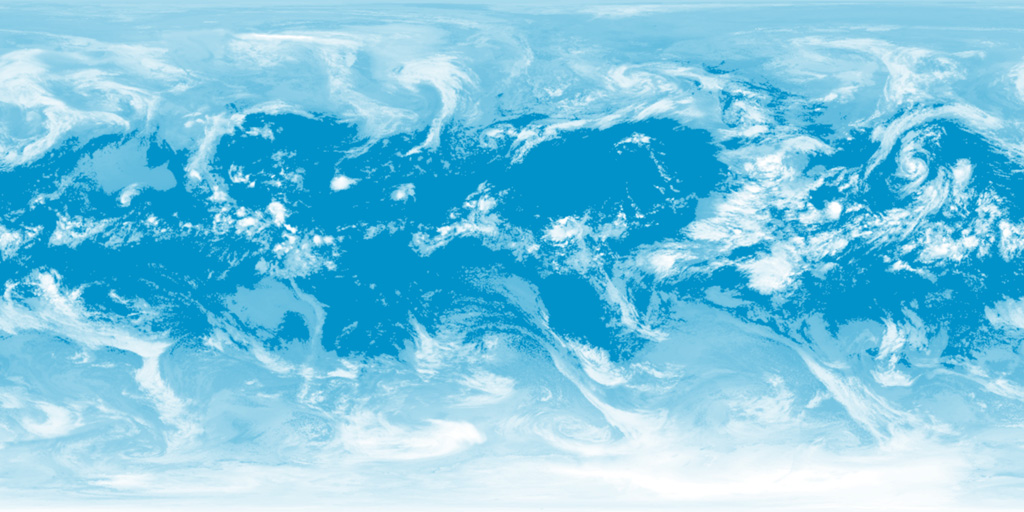
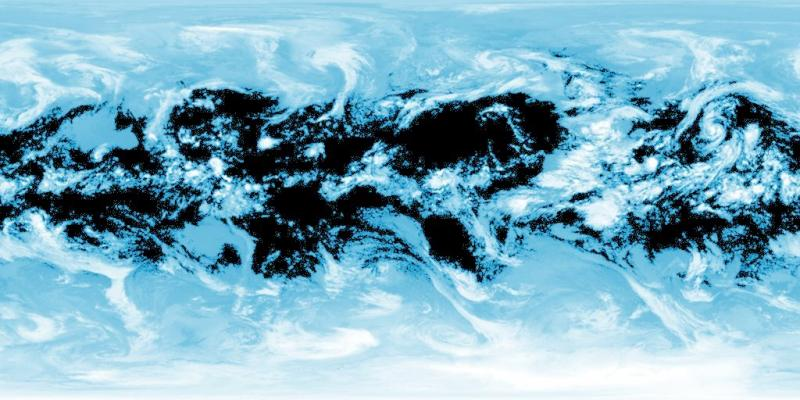
Web Solar System with Three.js : bump v0.0.36

Changed region(s): [[0.0, 0.15, 1.0, 0.72], [0.8438, 0.66, 0.875, 0.69], [0.6875, 0.12, 0.7188, 0.15]]

diff --git a/dist/solar-system.min.js b/dist/solar-system.min.js
@@ -1,9 +1,9 @@
 /*
  * solar-system
  * @Description Solar System with Threejs
- * @version v0.0.31 - 2015-09-09
+ * @version v0.0.36 - 2015-09-10
  * @link https://github.com/KenEDR/three-solar-system#readme
  * @author Enrique Daimiel Ruiz <k.daimiel@gmail.com>
  * @license MIT License, http://www.opensource.org/licenses/MIT
  */
-function render(){requestAnimationFrame(render),renderer.render(scene,camera)}THREE.SolarBody=function(a){function b(a){var b=new THREE.MeshPhongMaterial;return b.map=THREE.ImageUtils.loadTexture(a.map),b.bumpMap=void 0!==a.bumpMap?THREE.ImageUtils.loadTexture(a.bumpMap):void 0,b.specularMap=void 0!==a.specularMap?THREE.ImageUtils.loadTexture(a.specularMap):void 0,b}THREE.Object3D.call(this),this.name=a.name,this.type="SolarBody",this.category=a.category,this.radius=a.radius||50,this.vRotation=a.vRotation||0,this.URLTexture=a.URLTexture,this.tilt=a.tilt||0,this.geometry=new THREE.SphereGeometry(this.radius,50,50),a.textureProperties.name=this.name,this.material=b(a.textureProperties),this.rotation.x=this.tilt,a.cloudsProperties&&(console.log("AAAAAAAAAAAAA"),this.createClouds(a.cloudsProperties)),a.ringsProperties&&this.createRings(a.ringsProperties),this.updateMorphTargets()},THREE.SolarBody.prototype=Object.create(THREE.Mesh.prototype),THREE.SolarBody.prototype.constructor=THREE.SolarBody,THREE.SolarBody.prototype.createClouds=function(a){var b=new THREE.SphereGeometry(a.radius,50,50),c=THREE.ImageUtils.loadTexture(a.map),d=new THREE.MeshPhongMaterial({map:c,side:THREE.DoubleSide,opacity:a.opacity,transparent:a.transparent,depthWrite:a.depthWrite}),e=new THREE.Mesh(b,d);this.add(e)},THREE.SolarBody.prototype.createRings=function(a){var b=new THREE.SolarRings(a);this.add(b)},THREE.SolarBody.prototype.update=function(){this.rotation.y-=this.vRotation*Math.PI/180},THREE.SolarCamera=function(a){THREE.PerspectiveCamera.call(this),this.type="SolarCamera",this.zoom=void 0!==a.zoom?a.zoom:1,this.fov=void 0!==a.fov?a.fov:50,this.aspect=void 0!==a.aspect?a.aspect:window.innerWidth/window.innerHeight,this.near=void 0!==a.near?a.near:.1,this.far=void 0!==a.far?a.far:2e3,this.position.x=void 0!==a.position.x?a.position.x:0,this.position.y=void 0!==a.position.y?a.position.y:0,this.position.z=void 0!==a.position.z?a.position.z:0,this.updateProjectionMatrix()},THREE.SolarCamera.prototype=Object.create(THREE.PerspectiveCamera.prototype),THREE.SolarCamera.prototype.constructor=THREE.PerspectiveCamera,THREE.SolarOrbit=function(a){THREE.Object3D.call(this),this.name=a.name,this.type="SolarOrbit",this.radius=a.radius||50,this.speed=a.speed||0,this.tilt=a.tilt||0},THREE.SolarOrbit.prototype=Object.create(THREE.Object3D.prototype),THREE.SolarOrbit.prototype.constructor=THREE.SolarOrbit,THREE.SolarOrbit.prototype.update=function(){this.rotation.y-=this.speed*Math.PI/180},THREE.SolarRings=function(a){THREE.Object3D.call(this),this.type="SolarRings",this.map=a.map,this.vRotation=a.vRotation||0,this.tilt=a.tilt||0,this.geometry=new THREE.SolarRingsGeometry(a);var b=THREE.ImageUtils.loadTexture(this.map);this.material=new THREE.MeshBasicMaterial({map:b,side:THREE.DoubleSide}),this.rotation.x=(90-this.tilt)*Math.PI/180},THREE.SolarRings.prototype=Object.create(THREE.Mesh.prototype),THREE.SolarRings.prototype.constructor=THREE.SolarRings,THREE.SolarRings.prototype.update=function(){this.rotation.y-=this.vRotation*Math.PI/180},THREE.SolarRingsGeometry=function(a){THREE.Geometry.call(this),this.type="SolarRingsGeometry",this.innerRadius=a.innerRadius||0,this.outerRadius=a.outerRadius||50,this.thetaStart=void 0!==a.thetaStart?a.thetaStart:0,this.thetaLength=void 0!==a.thetaLength?a.thetaLength:2*Math.PI,this.thetaSegments=void 0!==a.thetaSegments?Math.max(3,a.thetaSegments):50,this.phiSegments=void 0!==a.phiSegments?Math.max(1,a.phiSegments):50;var b,c,d,e=[],f=this.innerRadius,g=(a.outerRadius-a.innerRadius)/this.phiSegments;for(b=0;b<this.phiSegments+1;b++){for(c=0;c<this.thetaSegments+1;c++){var h=new THREE.Vector3;d=this.thetaStart+c/this.thetaSegments*this.thetaLength,h.x=f*Math.cos(d),h.y=f*Math.sin(d),this.vertices.push(h),e.push(new THREE.Vector2(b/(this.thetaSegments-1),c/(this.phiSegments-1)))}f+=g}var i=new THREE.Vector3(0,0,1);for(b=0;b<this.phiSegments;b++){var j=b*(this.thetaSegments+1);for(c=0;c<this.thetaSegments;c++){d=c+j;var k=d,l=d+this.thetaSegments+1,m=d+this.thetaSegments+2;this.faces.push(new THREE.Face3(k,l,m,[i.clone(),i.clone(),i.clone()])),this.faceVertexUvs[0].push([e[k].clone(),e[l].clone(),e[m].clone()]),k=d,l=d+this.thetaSegments+2,m=d+1,this.faces.push(new THREE.Face3(k,l,m,[i.clone(),i.clone(),i.clone()])),this.faceVertexUvs[0].push([e[k].clone(),e[l].clone(),e[m].clone()])}}this.computeFaceNormals(),this.boundingSphere=new THREE.Sphere(new THREE.Vector3,f)},THREE.SolarRingsGeometry.prototype=Object.create(THREE.RingGeometry.prototype),THREE.SolarRingsGeometry.prototype.constructor=THREE.SolarRingsGeometry,define("scene-factory",function(){"use strict";function a(a){g=new THREE.SolarCamera(a),i=new THREE.TrackballControls(g),i.addEventListener("change",c)}function b(a){var b=new THREE.SolarBody(a);if(j.push(b),a.orbitProperties){var c=a.orbitProperties;c.name=a.name;var d,e=new THREE.SolarOrbit(c);for(var g in k)c.round===k[g].name&&(d=k[g]);d?(e.position.z=d.position.z+d.radius||0,d.add(e)):f.add(e),k.push(e),b.position.z=e.radius||0,e.add(b)}else f.add(b)}function c(){h.render(f,g)}function d(){f=new THREE.Scene,h=new THREE.WebGLRenderer({alpha:!0}),h.setSize(window.innerWidth,window.innerHeight),document.body.appendChild(h.domElement);var a=new THREE.AmbientLight(16777215);f.add(a),e()}function e(){requestAnimationFrame(e);for(var a in j)j[a].update();for(var b in k)k[b].update();i.update(),c()}var f,g,h,i,j=[],k=[],l={createCamera:a,createBody:b,init:d};return l}),define("solar-service",function(){"use strict";function a(a){c("../src/data/camera.properties.json",a)}function b(a){c("../src/data/bodies.properties.json",a)}function c(a,b){$.ajax(a,{success:function(a){return b(a)},error:function(a){console.error("Load JSON error:"+a)}})}var d={getCamera:a,getBodies:b};return d}),require(["scene-factory","solar-service"],function(a,b){function c(c){a.createCamera(c),a.init(),b.getBodies(d)}function d(b){b.forEach(function(b){a.createBody(b)})}b.getCamera(c)});var scene=new THREE.Scene,camera=new THREE.PerspectiveCamera(75,window.innerWidth/window.innerHeight,.1,1e3),renderer=new THREE.WebGLRenderer;renderer.setSize(window.innerWidth,window.innerHeight),document.getElementById("picture").appendChild(renderer.domElement);var geometry=new THREE.SphereGeometry(1,32,32),material=new THREE.MeshPhongMaterial,earthMesh=new THREE.Mesh(geometry,material);material.map=THREE.ImageUtils.loadTexture("img/earth/earthmap1k.jpg"),material.bumpMap=THREE.ImageUtils.loadTexture("img/earth/earthbump1k.jpg"),material.bumpScale=.05,material.specularMap=THREE.ImageUtils.loadTexture("img/earth/earthspec1k.jpg"),material.specular=new THREE.Color("grey"),scene.add(earthMesh);var light=new THREE.PointLight(16711680,1,100);light.position.set(0,0,0),scene.add(light);var light=new THREE.AmbientLight(8947848);scene.add(light),camera.position.z=5,render();
+THREE.SolarBody=function(a){function b(a){var b=new THREE.MeshPhongMaterial;return b.map=THREE.ImageUtils.loadTexture(a.map),b.bumpMap=void 0!==a.bumpMap?THREE.ImageUtils.loadTexture(a.bumpMap):void 0,b.bumpScale=.05,b.specularMap=void 0!==a.specularMap?THREE.ImageUtils.loadTexture(a.specularMap):void 0,b.specular=new THREE.Color("grey"),b}THREE.Object3D.call(this),this.name=a.name,this.type="SolarBody",this.category=a.category,this.radius=a.radius||50,this.vRotation=a.vRotation||0,this.URLTexture=a.URLTexture,this.tilt=a.tilt||0,this.geometry=new THREE.SphereGeometry(this.radius,50,50),a.textureProperties.name=this.name,this.material=b(a.textureProperties),this.rotation.x=this.tilt,a.cloudsProperties&&this.createClouds(a.cloudsProperties),a.ringsProperties&&this.createRings(a.ringsProperties),this.updateMorphTargets()},THREE.SolarBody.prototype=Object.create(THREE.Mesh.prototype),THREE.SolarBody.prototype.constructor=THREE.SolarBody,THREE.SolarBody.prototype.createClouds=function(a){a.radius=a.radius||this.radius+10;var b=new THREE.SphereGeometry(a.radius,50,50),c=THREE.ImageUtils.loadTexture(a.map),d=new THREE.MeshPhongMaterial({map:c,side:THREE.DoubleSide,opacity:a.opacity,transparent:a.transparent,depthWrite:a.depthWrite}),e=new THREE.Mesh(b,d);e.rotation.x=this.tilt,e.update=function(){this.rotation.x-=a.speed*Math.PI/180,this.rotation.y-=a.speed*Math.PI/180,this.rotation.z-=a.speed*Math.PI/180},this.add(e)},THREE.SolarBody.prototype.createRings=function(a){var b=new THREE.SolarRings(a);this.add(b)},THREE.SolarBody.prototype.update=function(){this.rotation.y-=this.vRotation*Math.PI/180;for(var a in this.children)this.children[a].update()},THREE.SolarCamera=function(a){THREE.PerspectiveCamera.call(this),this.type="SolarCamera",this.zoom=void 0!==a.zoom?a.zoom:1,this.fov=void 0!==a.fov?a.fov:50,this.aspect=void 0!==a.aspect?a.aspect:window.innerWidth/window.innerHeight,this.near=void 0!==a.near?a.near:.1,this.far=void 0!==a.far?a.far:2e3,this.position.x=void 0!==a.position.x?a.position.x:0,this.position.y=void 0!==a.position.y?a.position.y:0,this.position.z=void 0!==a.position.z?a.position.z:0,this.updateProjectionMatrix()},THREE.SolarCamera.prototype=Object.create(THREE.PerspectiveCamera.prototype),THREE.SolarCamera.prototype.constructor=THREE.PerspectiveCamera,THREE.SolarOrbit=function(a){THREE.Object3D.call(this),this.name=a.name,this.type="SolarOrbit",this.radius=a.radius||50,this.speed=a.speed||0,this.tilt=a.tilt||0},THREE.SolarOrbit.prototype=Object.create(THREE.Object3D.prototype),THREE.SolarOrbit.prototype.constructor=THREE.SolarOrbit,THREE.SolarOrbit.prototype.update=function(){this.rotation.y-=this.speed*Math.PI/180;for(var a in this.children)this.children[a].update()},THREE.SolarRings=function(a){THREE.Object3D.call(this),this.type="SolarRings",this.map=a.map,this.vRotation=a.vRotation||0,this.tilt=a.tilt||0,this.geometry=new THREE.SolarRingsGeometry(a);var b=THREE.ImageUtils.loadTexture(this.map);this.material=new THREE.MeshBasicMaterial({map:b,side:THREE.DoubleSide}),this.rotation.x=(90-this.tilt)*Math.PI/180},THREE.SolarRings.prototype=Object.create(THREE.Mesh.prototype),THREE.SolarRings.prototype.constructor=THREE.SolarRings,THREE.SolarRings.prototype.update=function(){this.rotation.y-=this.vRotation*Math.PI/180},THREE.SolarRingsGeometry=function(a){THREE.Geometry.call(this),this.type="SolarRingsGeometry",this.innerRadius=a.innerRadius||0,this.outerRadius=a.outerRadius||50,this.thetaStart=void 0!==a.thetaStart?a.thetaStart:0,this.thetaLength=void 0!==a.thetaLength?a.thetaLength:2*Math.PI,this.thetaSegments=void 0!==a.thetaSegments?Math.max(3,a.thetaSegments):50,this.phiSegments=void 0!==a.phiSegments?Math.max(1,a.phiSegments):50;var b,c,d,e=[],f=this.innerRadius,g=(a.outerRadius-a.innerRadius)/this.phiSegments;for(b=0;b<this.phiSegments+1;b++){for(c=0;c<this.thetaSegments+1;c++){var h=new THREE.Vector3;d=this.thetaStart+c/this.thetaSegments*this.thetaLength,h.x=f*Math.cos(d),h.y=f*Math.sin(d),this.vertices.push(h),e.push(new THREE.Vector2(b/(this.thetaSegments-1),c/(this.phiSegments-1)))}f+=g}var i=new THREE.Vector3(0,0,1);for(b=0;b<this.phiSegments;b++){var j=b*(this.thetaSegments+1);for(c=0;c<this.thetaSegments;c++){d=c+j;var k=d,l=d+this.thetaSegments+1,m=d+this.thetaSegments+2;this.faces.push(new THREE.Face3(k,l,m,[i.clone(),i.clone(),i.clone()])),this.faceVertexUvs[0].push([e[k].clone(),e[l].clone(),e[m].clone()]),k=d,l=d+this.thetaSegments+2,m=d+1,this.faces.push(new THREE.Face3(k,l,m,[i.clone(),i.clone(),i.clone()])),this.faceVertexUvs[0].push([e[k].clone(),e[l].clone(),e[m].clone()])}}this.computeFaceNormals(),this.boundingSphere=new THREE.Sphere(new THREE.Vector3,f)},THREE.SolarRingsGeometry.prototype=Object.create(THREE.RingGeometry.prototype),THREE.SolarRingsGeometry.prototype.constructor=THREE.SolarRingsGeometry,define("scene-factory",function(){"use strict";function a(a){g=new THREE.SolarCamera(a),i=new THREE.TrackballControls(g),i.addEventListener("change",c)}function b(a){var b=new THREE.SolarBody(a);if(j.push(b),a.orbitProperties){var c=a.orbitProperties;c.name=a.name;var d,e=new THREE.SolarOrbit(c);for(var g in k)c.round===k[g].name&&(d=k[g]);d?(e.position.z=d.position.z+d.radius||0,d.add(e)):f.add(e),k.push(e),b.position.z=e.radius||0,e.add(b)}else f.add(b)}function c(){h.render(f,g)}function d(){f=new THREE.Scene,h=new THREE.WebGLRenderer({alpha:!0}),h.setSize(window.innerWidth,window.innerHeight),document.body.appendChild(h.domElement);var a=new THREE.AmbientLight(16777215);f.add(a),e()}function e(){requestAnimationFrame(e);for(var a in f.children)f.children[a].update&&f.children[a].update();i.update(),c()}var f,g,h,i,j=[],k=[],l={createCamera:a,createBody:b,init:d};return l}),define("solar-service",function(){"use strict";function a(a){c("../src/data/camera.properties.json",a)}function b(a){c("../src/data/bodies.properties.json",a)}function c(a,b){$.ajax(a,{success:function(a){return b(a)},error:function(a){console.error("Load JSON error:"+a)}})}var d={getCamera:a,getBodies:b};return d}),require(["scene-factory","solar-service"],function(a,b){function c(c){a.createCamera(c),a.init(),b.getBodies(d)}function d(b){b.forEach(function(b){a.createBody(b)})}b.getCamera(c)});

diff --git a/dist/solar-system.js b/dist/solar-system.js
@@ -1,7 +1,7 @@
 /*
  * solar-system
  * @Description Solar System with Threejs
- * @version v0.0.31 - 2015-09-09
+ * @version v0.0.36 - 2015-09-10
  * @link https://github.com/KenEDR/three-solar-system#readme
  * @author Enrique Daimiel Ruiz <k.daimiel@gmail.com>
  * @license MIT License, http://www.opensource.org/licenses/MIT
@@ -27,7 +27,6 @@ THREE.SolarBody = function(bodyProperties) {
   this.rotation.x = this.tilt;
 
   if(bodyProperties.cloudsProperties) {
-    console.log('AAAAAAAAAAAAA');
     this.createClouds(bodyProperties.cloudsProperties);
   }
 
@@ -44,10 +43,9 @@ THREE.SolarBody = function(bodyProperties) {
     material.map    = THREE.ImageUtils.loadTexture(textureProperties.map);
 
     material.bumpMap = textureProperties.bumpMap !== undefined ? THREE.ImageUtils.loadTexture(textureProperties.bumpMap) : undefined;
-    //material.bumpScale = 0.05;
+    material.bumpScale = 0.05;
     material.specularMap    = textureProperties.specularMap !== undefined ? THREE.ImageUtils.loadTexture(textureProperties.specularMap) : undefined;
-    //material.specular  = new THREE.Color('grey');
-
+    material.specular  = new THREE.Color('grey');
     return material;
   }
 
@@ -57,6 +55,9 @@ THREE.SolarBody.prototype = Object.create( THREE.Mesh.prototype );
 THREE.SolarBody.prototype.constructor = THREE.SolarBody;
 
 THREE.SolarBody.prototype.createClouds = function(cloudsProperties) {
+
+  cloudsProperties.radius = cloudsProperties.radius || this.radius + 10;
+
   var geometry   = new THREE.SphereGeometry(cloudsProperties.radius, 50, 50);
   var texture = THREE.ImageUtils.loadTexture(cloudsProperties.map);
   var material  = new THREE.MeshPhongMaterial({
@@ -68,6 +69,12 @@ THREE.SolarBody.prototype.createClouds = function(cloudsProperties) {
   });
 
   var cloudMesh = new THREE.Mesh(geometry, material);
+  cloudMesh.rotation.x = this.tilt;
+  cloudMesh.update = function () {
+    this.rotation.x -= cloudsProperties.speed * Math.PI / 180;     // Rotates  N degrees per frame;
+    this.rotation.y -= cloudsProperties.speed * Math.PI / 180;     // Rotates  N degrees per frame;
+    this.rotation.z -= cloudsProperties.speed * Math.PI / 180;     // Rotates  N degrees per frame;
+  };
   this.add(cloudMesh);
 };
 
@@ -76,9 +83,11 @@ THREE.SolarBody.prototype.createRings = function(ringsProperties) {
   this.add(solarRings);
 };
 
-
 THREE.SolarBody.prototype.update = function() {
   this.rotation.y -= this.vRotation * Math.PI / 180;     // Rotates  N degrees per frame;
+  for(var i in this.children) {
+    this.children[i].update();
+  }
 };
 
 
@@ -123,6 +132,9 @@ THREE.SolarOrbit.prototype.constructor = THREE.SolarOrbit;
 
 THREE.SolarOrbit.prototype.update = function() {
   this.rotation.y -= this.speed * Math.PI / 180 ;     // Rotates  N degrees per frame;
+  for(var i in this.children) {
+    this.children[i].update();
+  }
 };
 
 
@@ -141,7 +153,6 @@ THREE.SolarRings = function(ringsProperties) {
 
   this.rotation.x = (90 - this.tilt) * Math.PI / 180;
 
-  //this.updateMorphTargets();
 };
 
 THREE.SolarRings.prototype = Object.create( THREE.Mesh.prototype );
@@ -304,12 +315,10 @@ define('scene-factory', function() {
 
     requestAnimationFrame( animate );
 
-    for(var i in solarBodies) {
-      solarBodies[i].update();
-    }
-
-    for(var j in solarOrbits) {
-      solarOrbits[j].update();
+    for(var i in scene.children) {
+      if(scene.children[i].update) {
+        scene.children[i].update();
+      }
     }
 
     controls.update();
@@ -371,66 +380,3 @@ require([
     });
   }
 });
-
-
-// Init scene which content rendered objects.
-var scene = new THREE.Scene();
-
-// Init a perspective camera tho watch objects.
-var camera = new THREE.PerspectiveCamera( 75, window.innerWidth / window.innerHeight, 0.1, 1000 );
-
-// Create a renderer object and include this in html code.
-// aLpha:true sets background to be transparent
-var renderer = new THREE.WebGLRenderer();
-renderer.setSize( window.innerWidth, window.innerHeight );
-document.getElementById('picture').appendChild( renderer.domElement );
-
-// Create a cube object with a specific geometry and material.
-
-var geometry   = new THREE.SphereGeometry(1, 32, 32);
-var material  = new THREE.MeshPhongMaterial();
-var earthMesh = new THREE.Mesh(geometry, material);
-
-material.map  = THREE.ImageUtils.loadTexture('img/earth/earthmap1k.jpg');
-
-material.bumpMap    = THREE.ImageUtils.loadTexture('img/earth/earthbump1k.jpg');
-material.bumpScale = 0.05;
-
-material.specularMap    = THREE.ImageUtils.loadTexture('img/earth/earthspec1k.jpg');
-material.specular  = new THREE.Color('grey');
-
-scene.add(earthMesh);
-
-var light = new THREE.PointLight( 0xff0000, 1, 100 );
-light.position.set( 0, 0, 0 );
-scene.add( light );
-
-var light = new THREE.AmbientLight( 0x888888 );
-scene.add( light );
-// var light  = new THREE.DirectionalLight( 'white', 1)
-// light.position.set(5,5,5)
-// light.target.position.set( 0, 0, 0 )
-// scene.add( light )
-
-/*var light = new THREE.DirectionalLight( 0xcccccc, 1 );
-light.position.set(5,3,5);
-scene.add( light );*/
-
-
-
-// Set the camera position in z axis.
-camera.position.z = 5;
-
-// render function to start renderization.
-function render() {
-
-  // Set animation Frame
-  requestAnimationFrame( render );
-
-  // Set render update properties to objects
-
-  renderer.render( scene, camera );
-}
-
-// Start render
-render();

diff --git a/src/js/SolarBody.js b/src/js/SolarBody.js
@@ -19,7 +19,6 @@ THREE.SolarBody = function(bodyProperties) {
   this.rotation.x = this.tilt;
 
   if(bodyProperties.cloudsProperties) {
-    console.log('AAAAAAAAAAAAA');
     this.createClouds(bodyProperties.cloudsProperties);
   }
 
@@ -36,10 +35,9 @@ THREE.SolarBody = function(bodyProperties) {
     material.map    = THREE.ImageUtils.loadTexture(textureProperties.map);
 
     material.bumpMap = textureProperties.bumpMap !== undefined ? THREE.ImageUtils.loadTexture(textureProperties.bumpMap) : undefined;
-    //material.bumpScale = 0.05;
+    material.bumpScale = 0.05;
     material.specularMap    = textureProperties.specularMap !== undefined ? THREE.ImageUtils.loadTexture(textureProperties.specularMap) : undefined;
-    //material.specular  = new THREE.Color('grey');
-
+    material.specular  = new THREE.Color('grey');
     return material;
   }
 
@@ -49,6 +47,9 @@ THREE.SolarBody.prototype = Object.create( THREE.Mesh.prototype );
 THREE.SolarBody.prototype.constructor = THREE.SolarBody;
 
 THREE.SolarBody.prototype.createClouds = function(cloudsProperties) {
+
+  cloudsProperties.radius = cloudsProperties.radius || this.radius + 10;
+
   var geometry   = new THREE.SphereGeometry(cloudsProperties.radius, 50, 50);
   var texture = THREE.ImageUtils.loadTexture(cloudsProperties.map);
   var material  = new THREE.MeshPhongMaterial({
@@ -60,6 +61,12 @@ THREE.SolarBody.prototype.createClouds = function(cloudsProperties) {
   });
 
   var cloudMesh = new THREE.Mesh(geometry, material);
+  cloudMesh.rotation.x = this.tilt;
+  cloudMesh.update = function () {
+    this.rotation.x -= cloudsProperties.speed * Math.PI / 180;     // Rotates  N degrees per frame;
+    this.rotation.y -= cloudsProperties.speed * Math.PI / 180;     // Rotates  N degrees per frame;
+    this.rotation.z -= cloudsProperties.speed * Math.PI / 180;     // Rotates  N degrees per frame;
+  };
   this.add(cloudMesh);
 };
 
@@ -68,7 +75,9 @@ THREE.SolarBody.prototype.createRings = function(ringsProperties) {
   this.add(solarRings);
 };
 
-
 THREE.SolarBody.prototype.update = function() {
   this.rotation.y -= this.vRotation * Math.PI / 180;     // Rotates  N degrees per frame;
+  for(var i in this.children) {
+    this.children[i].update();
+  }
 };

diff --git a/src/js/scene-factory.js b/src/js/scene-factory.js
@@ -79,12 +79,10 @@ define('scene-factory', function() {
 
     requestAnimationFrame( animate );
 
-    for(var i in solarBodies) {
-      solarBodies[i].update();
-    }
-
-    for(var j in solarOrbits) {
-      solarOrbits[j].update();
+    for(var i in scene.children) {
+      if(scene.children[i].update) {
+        scene.children[i].update();
+      }
     }
 
     controls.update();

diff --git a/src/js/SolarOrbit.js b/src/js/SolarOrbit.js
@@ -16,4 +16,7 @@ THREE.SolarOrbit.prototype.constructor = THREE.SolarOrbit;
 
 THREE.SolarOrbit.prototype.update = function() {
   this.rotation.y -= this.speed * Math.PI / 180 ;     // Rotates  N degrees per frame;
+  for(var i in this.children) {
+    this.children[i].update();
+  }
 };

diff --git a/src/js/SolarRings.js b/src/js/SolarRings.js
@@ -14,7 +14,6 @@ THREE.SolarRings = function(ringsProperties) {
 
   this.rotation.x = (90 - this.tilt) * Math.PI / 180;
 
-  //this.updateMorphTargets();
 };
 
 THREE.SolarRings.prototype = Object.create( THREE.Mesh.prototype );
